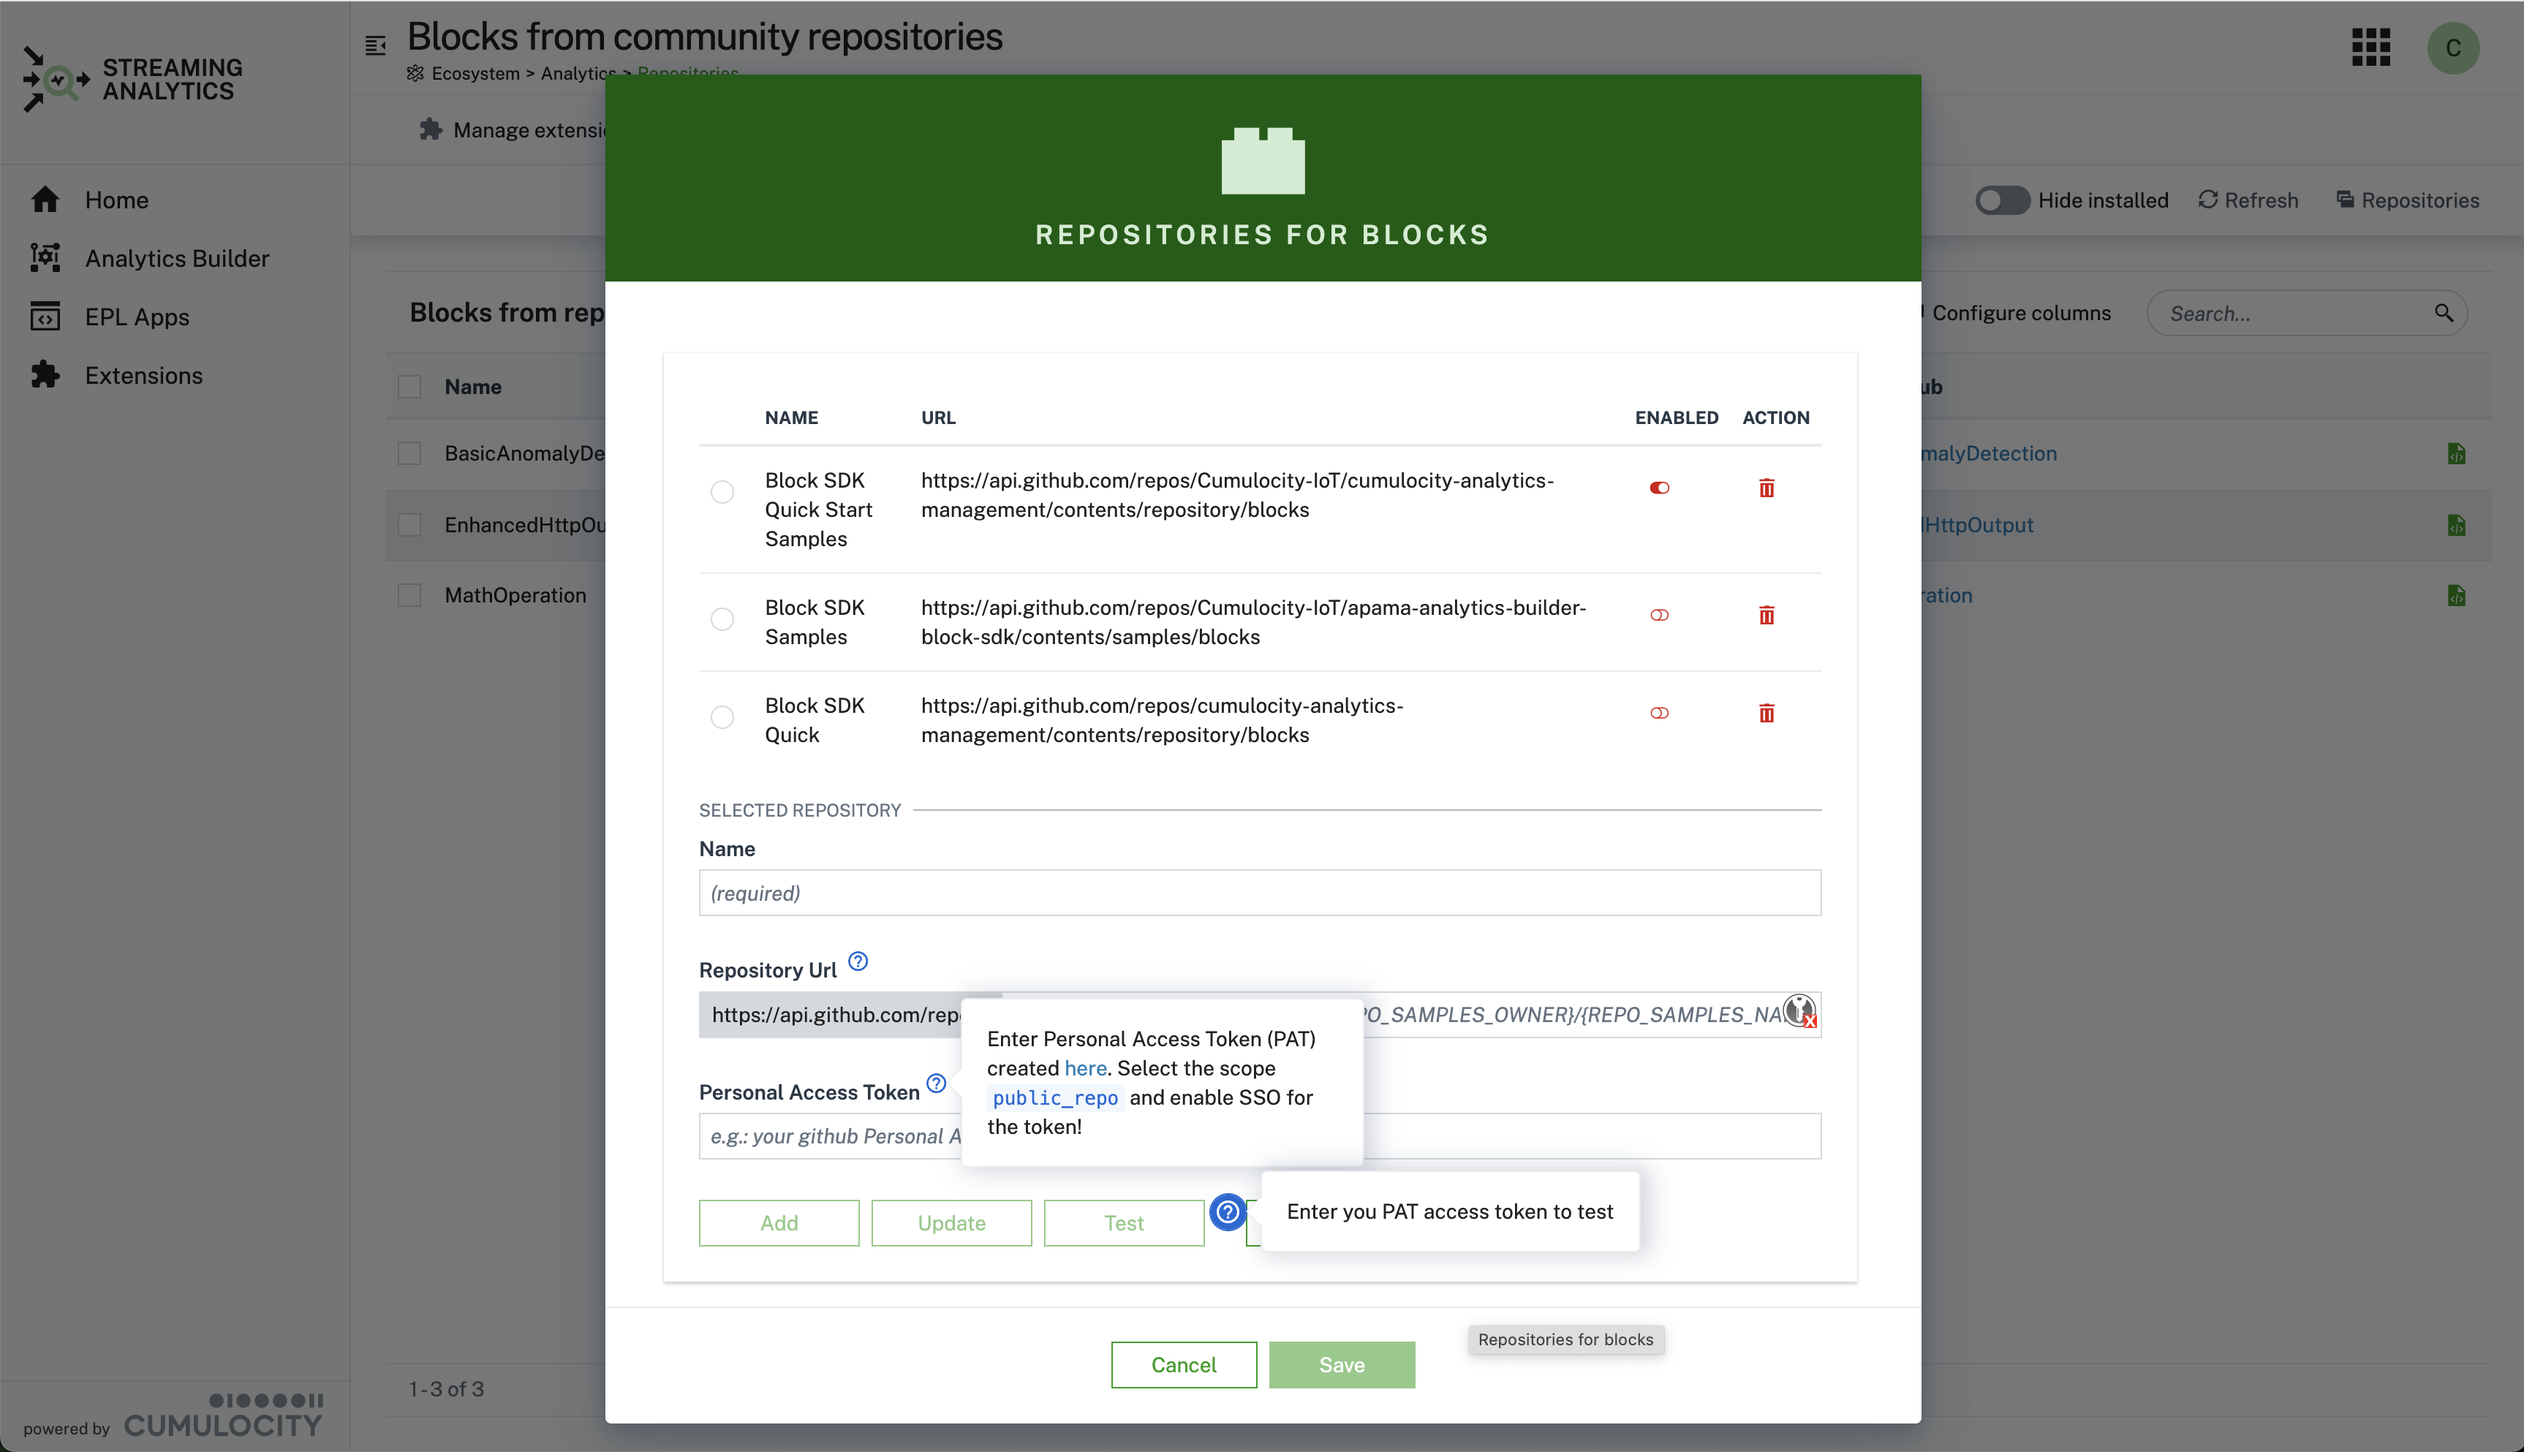
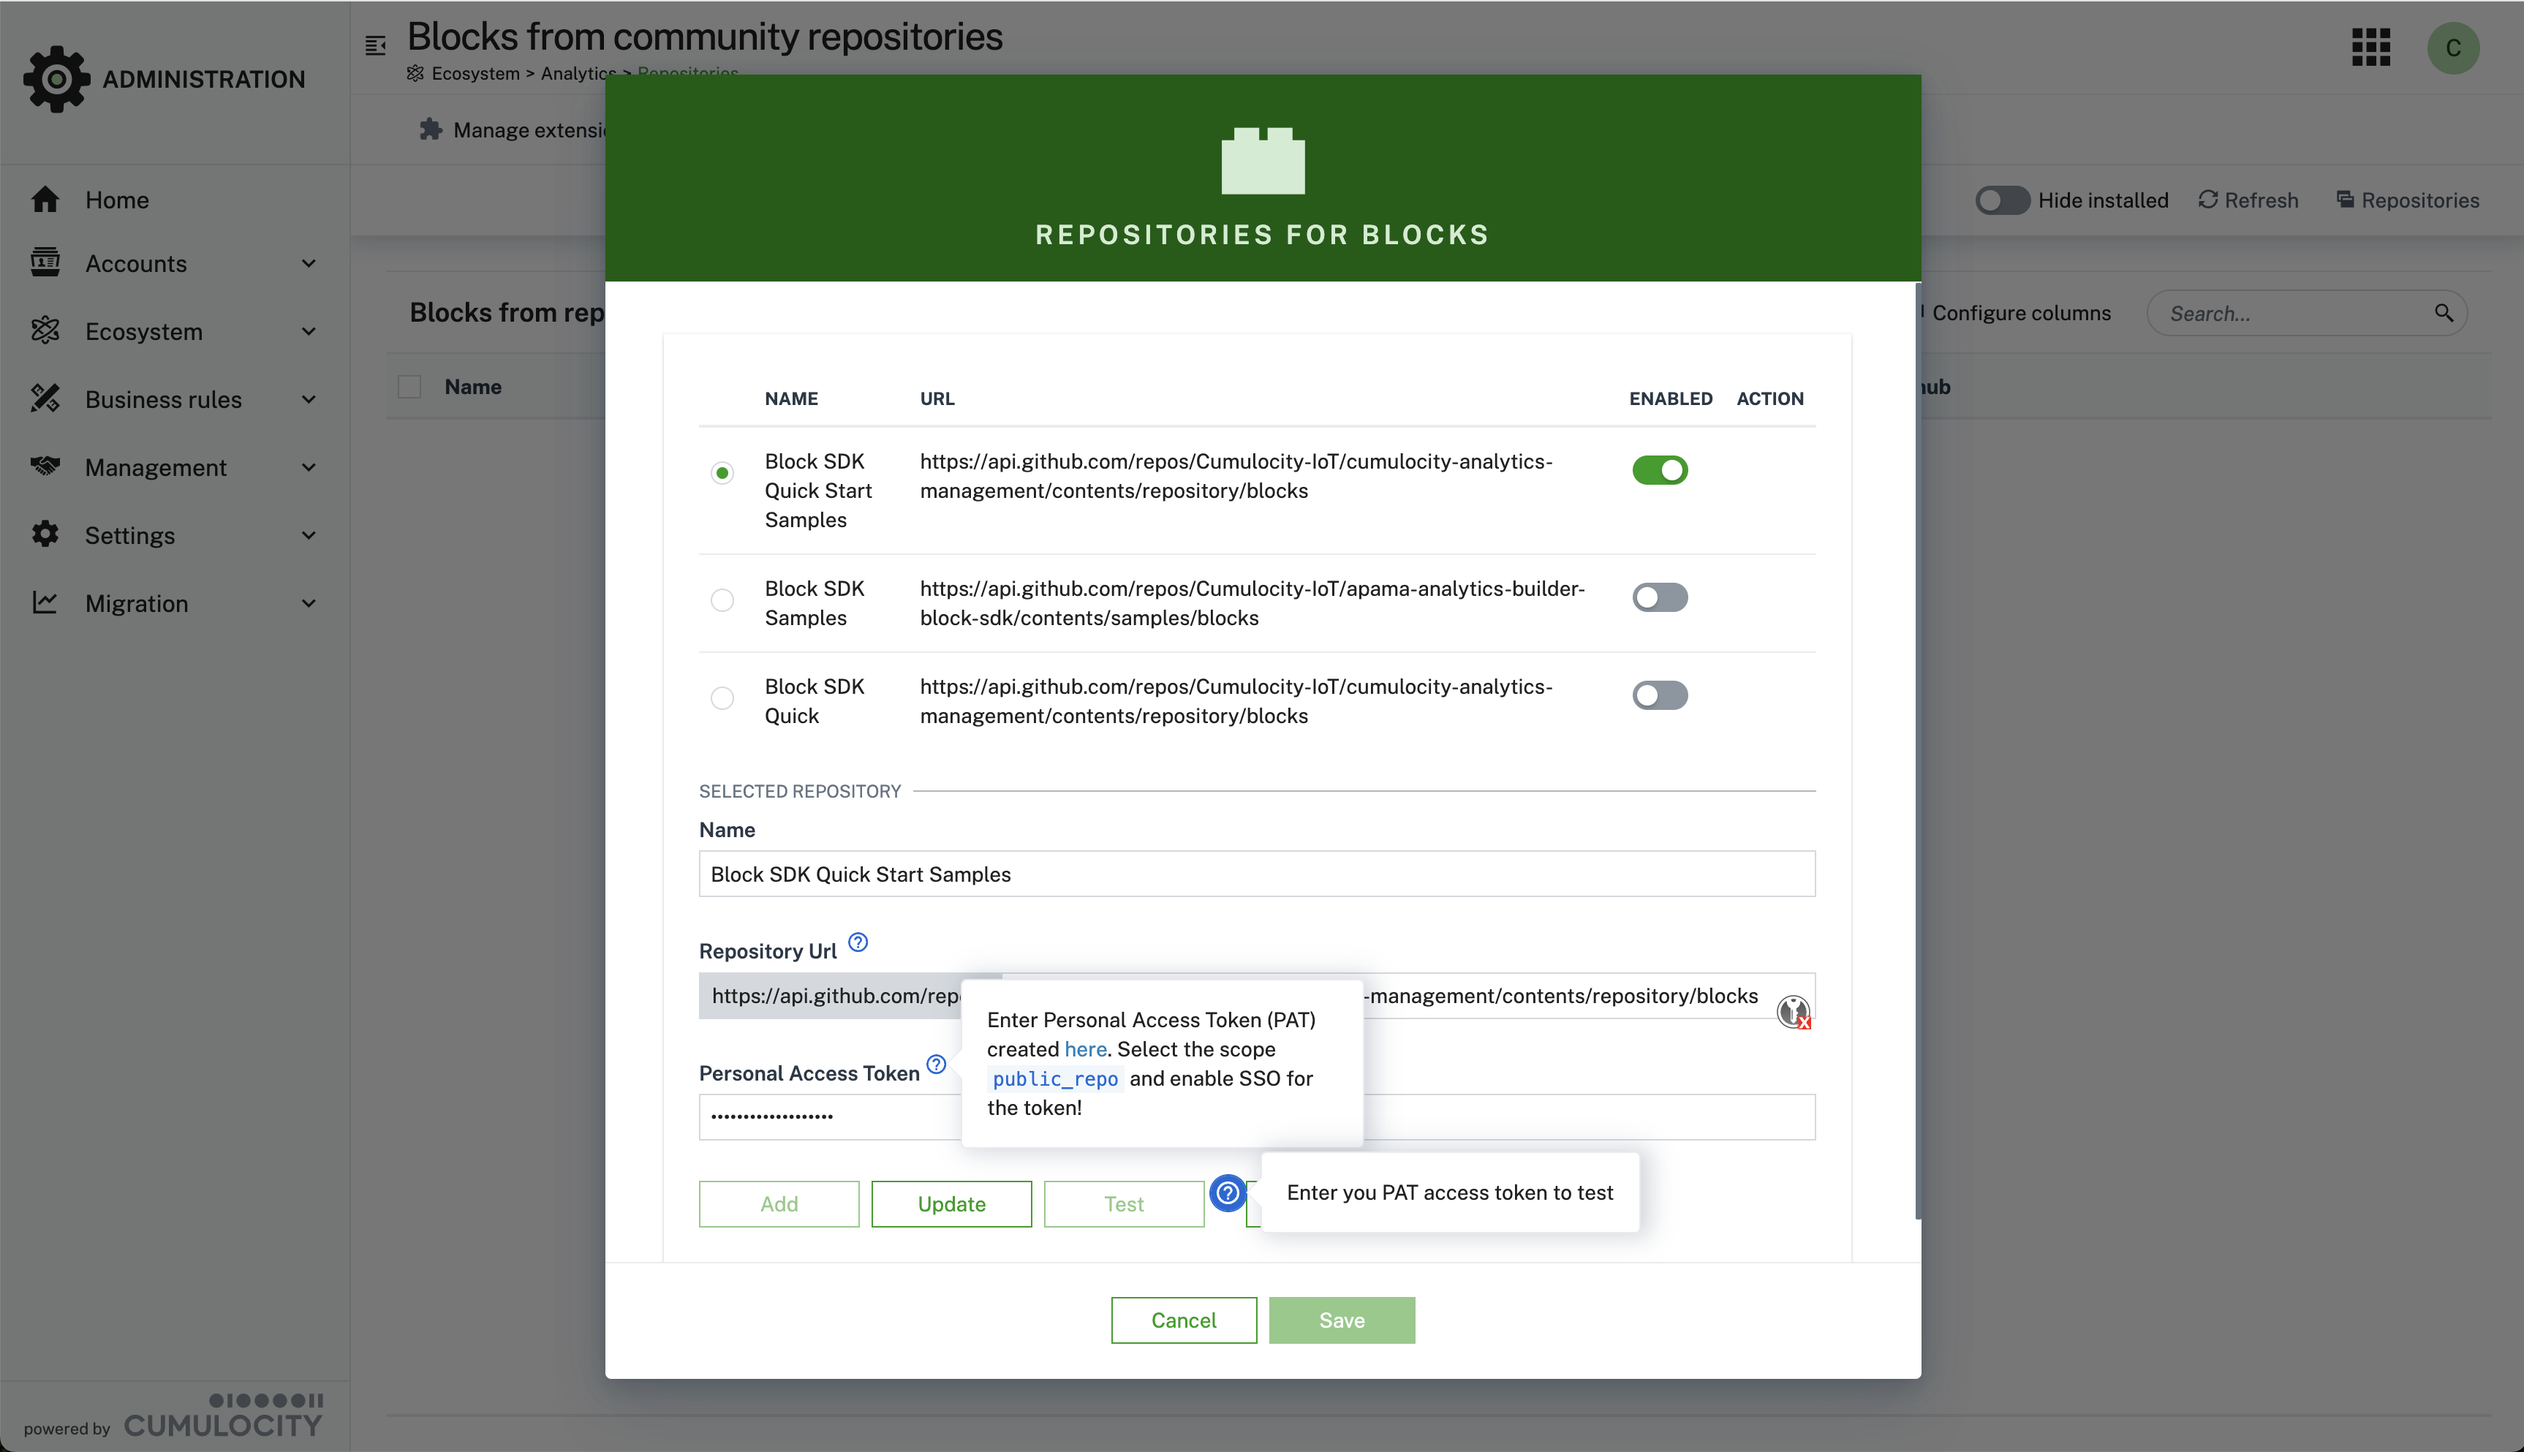
fix bugs in managing accessToken & url

diff --git a/analytics-ui/src/repository/repository/repositories-modal.component.html b/analytics-ui/src/repository/repository/repositories-modal.component.html
@@ -33,15 +33,20 @@
                 {{ repository.url }}
               </td>
               <td class="j-c-center_">
-                <button title="{{ 'Toggle activation' | translate }}" class="btn btn-icon btn-clean"
+                <!-- <button title="{{ 'Toggle activation' | translate }}" class="btn btn-icon btn-clean"
                   (click)="toggleActivation(repository)">
                   <i [c8yIcon]="!repository?.enabled ? 'toggle-off' : 'toggle-on'" class="m-r-5" c8yIcon="toggle-on"
                     class="text-danger"></i>
                   <span class="sr-only" translate>Toggle activation</span>
-                </button>
+                </button> -->
+                <label class="c8y-switch">
+                  <input title="{{ 'Toggle activation' | translate }}" type="checkbox" [checked]="repository?.enabled"
+                    (click)="toggleActivation(repository)" />
+                  <span></span>
+                </label>
               </td>
               <td width="10%" class="j-c-center_">
-                <button title="{{ 'Delete' | translate }}" class="btn btn-icon btn-clean"
+                <button title="{{ 'Delete' | translate }}" class="btn btn-icon btn-clean showOnHover"
                   (click)="deleteRepository(repository.id)">
                   <i c8yIcon="trash-o" class="text-danger"></i>
                   <span class="sr-only" translate>Delete</span>
@@ -100,8 +105,7 @@
               style="min-width:110px">
               Test
             </button>
-            <button type="button" placement="right"
-              [popover]="'Enter you PAT access token to test'" triggers="focus"
+            <button type="button" placement="right" [popover]="'Enter you PAT access token to test'" triggers="focus"
               class="btn-help" aria-label="Help content"></button>
             <button (click)="resetForm()" class="btn btn-default" style="min-width:110px">
               Reset form

diff --git a/analytics-ui/src/repository/repository/repositories-modal.component.ts b/analytics-ui/src/repository/repository/repositories-modal.component.ts
@@ -79,8 +79,10 @@ export class RepositoriesModalComponent implements OnInit {
 
   toggleActivation(repository: Repository): void {
     repository.enabled = !repository.enabled;
+    const updatedRepository = repository;
+    updatedRepository.url = updatedRepository.url;
     this.saveRequired = true;
-    this.repositoryService.updateRepository(repository);
+    this.repositoryService.updateRepository(updatedRepository);
   }
 
   updateRepository(): void {

diff --git a/analytics-service/flask_wrapper.py b/analytics-service/flask_wrapper.py
@@ -61,7 +61,7 @@ def get_repository_headers(
         )
         if "accessToken" in repository_configuration:
             headers["Authorization"] = (
-                f"token {repository_configuration['accessToken']}"
+                f"Bearer {repository_configuration['accessToken']}"
             )
             logger.info("Access token found and added to headers")
     return headers
